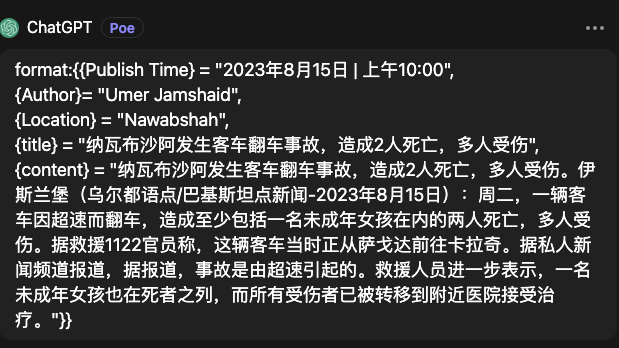
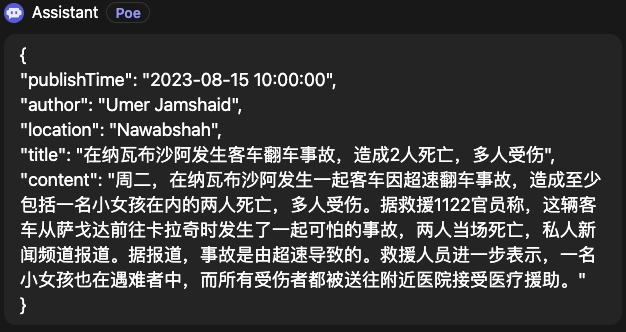
update rss docs

Changed region(s): [[0.0, 0.1506, 0.9822, 0.9639], [0.0, 0.0, 0.2456, 0.1205], [0.9515, 0.0602, 0.9822, 0.0904]]

diff --git a/技术/AI/FlowiseAI/Flowise 应用场景-智能客服(Chrome).md b/技术/AI/FlowiseAI/Flowise 应用场景-智能客服(Chrome).md
@@ -1,5 +1,100 @@
 # Flowise 应用场景-智能客服(Chrome)
 ## 需求
-之前的智能客服使用的是内存向量数据库，但无法维护，所以想办法替换成 Chrome 自部署服务向量数据库，其他不变
+[Flowise 应用场景-智能客服(内存向量数据库)
+](https://github.com/pangzheng/BOOKS/blob/master/%E6%8A%80%E6%9C%AF/AI/FlowiseAI/Flowise%20%E5%BA%94%E7%94%A8%E5%9C%BA%E6%99%AF-%E6%99%BA%E8%83%BD%E5%AE%A2%E6%9C%8D(%E5%86%85%E5%AD%98%E5%90%91%E9%87%8F%E6%95%B0%E6%8D%AE%E5%BA%93).md) 方案使用的是内存向量数据库，仅作为测试使用。本次尝试将其替换成 Chrome 其他不变。
+## 部署 Chrome 服务
+- 下载代码
 
-部署 Chrome 服务
+		git clone https://github.com/chroma-core/chroma.git
+- 编译启动
+
+		cd chroma/
+		sudo docker-compose up -d --build
+		 
+		WARN[0000] The "CHROMA_SERVER_AUTH_PROVIDER" variable is not set. Defaulting to a blank string.
+		WARN[0000] The "CHROMA_SERVER_AUTH_CREDENTIALS_FILE" variable is not set. Defaulting to a blank string.
+		WARN[0000] The "CHROMA_SERVER_AUTH_CREDENTIALS" variable is not set. Defaulting to a blank string.
+		WARN[0000] The "CHROMA_SERVER_AUTH_CREDENTIALS_PROVIDER" variable is not set. Defaulting to a blank string.
+		[+] Building 111.3s (16/16) FINISHED
+		 => [server internal] load build definition from Dockerfile                                                                                                                                                                              0.1s
+		 => => transferring dockerfile: 771B                                                                                                                                                                                                     0.0s
+		 => [server internal] load .dockerignore                                                                                                                                                                                                 0.1s
+		 => => transferring context: 131B                                                                                                                                                                                                        0.0s
+		 => [server internal] load metadata for docker.io/library/python:3.10-slim-bookworm                                                                                                                                                      3.7s
+		 => [server internal] load build context                                                                                                                                                                                                 0.1s
+		 => => transferring context: 1.41MB                                                                                                                                                                                                      0.1s
+		 => [server builder 1/6] FROM docker.io/library/python:3.10-slim-bookworm@sha256:cc91315c3561d0b87d0525cb814d430cfbc70f10ca54577def184da80e87c1db                                                                                        2.2s
+		 => => resolve docker.io/library/python:3.10-slim-bookworm@sha256:cc91315c3561d0b87d0525cb814d430cfbc70f10ca54577def184da80e87c1db                                                                                                       0.1s
+		 => => sha256:2b8a9a2240c1224b34f6aafbc3310f9a3fe65bd6893050906d02e89fc8326aa9 3.50MB / 3.50MB                                                                                                                                           0.4s
+		 => => sha256:ee3ff8104b647adfd7c95ac5a0c324f9d9146d46053c3e22dfd8eb740928f2be 12.38MB / 12.38MB                                                                                                                                         0.7s
+		 => => sha256:4e6b4ab7744477f9b8d05daf9043d207d66656f70aed7995bdecf4af8e8ab1f4 245B / 245B                                                                                                                                               0.3s
+		 => => sha256:cc91315c3561d0b87d0525cb814d430cfbc70f10ca54577def184da80e87c1db 1.65kB / 1.65kB                                                                                                                                           0.0s
+		 => => sha256:83f353e03a40bbebc8d2fe1fcd2d7357d8613e92512c556b02483a670eeb7211 1.37kB / 1.37kB                                                                                                                                           0.0s
+		 => => sha256:1488b8d1803ea7d8ea895950305fff529b88f36c2db6ed9a4391b265868f0d60 6.94kB / 6.94kB                                                                                                                                           0.0s
+		 => => extracting sha256:2b8a9a2240c1224b34f6aafbc3310f9a3fe65bd6893050906d02e89fc8326aa9                                                                                                                                                0.2s
+		 => => sha256:67f71c4528a9196bd1de0a14a51c1bc283cde782e4799dcb4ae926937f03d701 3.36MB / 3.36MB                                                                                                                                           0.9s
+		 => => extracting sha256:ee3ff8104b647adfd7c95ac5a0c324f9d9146d46053c3e22dfd8eb740928f2be                                                                                                                                                0.7s
+		 => => extracting sha256:4e6b4ab7744477f9b8d05daf9043d207d66656f70aed7995bdecf4af8e8ab1f4                                                                                                                                                0.0s
+		 => => extracting sha256:67f71c4528a9196bd1de0a14a51c1bc283cde782e4799dcb4ae926937f03d701                                                                                                                                                0.4s
+		 => [server builder 2/6] RUN apt-get update --fix-missing && apt-get install -y --fix-missing     build-essential     gcc     g++ &&     rm -rf /var/lib/apt/lists/*                                                                    34.7s
+		 => [server final 3/7] RUN mkdir /chroma                                                                                                                                                                                                 0.6s
+		 => [server builder 3/6] RUN mkdir /install                                                                                                                                                                                              0.6s
+		 => [server builder 4/6] WORKDIR /install                                                                                                                                                                                                0.1s
+		 => [server final 4/7] WORKDIR /chroma                                                                                                                                                                                                   0.2s
+		 => [server builder 5/6] COPY ./requirements.txt requirements.txt                                                                                                                                                                        0.2s
+		 => [server builder 6/6] RUN pip install --no-cache-dir --upgrade --prefix="/install" -r requirements.txt                                                                                                                               60.9s
+		 => [server final 5/7] COPY --from=builder /install /usr/local                                                                                                                                                                           3.1s
+		 => [server final 6/7] COPY ./bin/docker_entrypoint.sh /docker_entrypoint.sh                                                                                                                                                             0.0s
+		 => [server final 7/7] COPY ./ /chroma                                                                                                                                                                                                   0.1s
+		 => [server] exporting to image                                                                                                                                                                                                          3.8s
+		 => => exporting layers                                                                                                                                                                                                                  3.7s
+		 => => writing image sha256:51c72afd0cb4da5ba5b058da563c4b8b6b5aeefa20c13cb0010baf62f187d51d                                                                                                                                             0.0s
+		 => => naming to docker.io/library/server                                                                                                                                                                                                0.0s
+		[+] Running 3/3
+		 ✔ Network chroma_net          Created                                                                                                                                                                                                   0.1s
+		 ✔ Volume "chroma_index_data"  Created                                                                                                                                                                                                   0.0s
+		 ✔ Container chroma-server-1   Started                                                                                                                                                                                                   0.4s
+
+- 检查启动
+
+		$ sudo docker ps
+		CONTAINER ID   IMAGE               COMMAND                  CREATED          STATUS          PORTS                                       NAMES
+		b97bb594ca98   server              "uvicorn chromadb.ap…"   43 minutes ago   Up 43 minutes   0.0.0.0:8000->8000/tcp, :::8000->8000/tcp   chroma-server-1
+- 检查挂载点
+
+		 vi docker-compose.yml
+		 
+		 ...
+		     volumes:
+			      - ./:/chroma
+			      - index_data:/index_data
+		 ...
+
+		~/chroma$ ll
+		total 128
+		drwxrwxr-x 11 pangzheng pangzheng  4096 Sep  5 19:53 ./
+		drwxr-xr-x  7 pangzheng pangzheng  4096 Sep  5 19:53 ../
+		drwxrwxr-x  3 pangzheng pangzheng  4096 Sep  5 19:02 bin/
+		drwxr-xr-x  2 root      root       4096 Sep  5 19:05 chroma/   <-- 挂点
+		drwxrwxr-x 14 pangzheng pangzheng  4096 Sep  5 19:04 chromadb/
+		-rw-r--r--  1 root      root       1049 Sep  5 19:05 chroma.log <-- 挂点
+		drwxrwxr-x  4 pangzheng pangzheng  4096 Sep  5 18:58 clients/
+            ....
+- 检查监听
+
+		$ netstat -antlp | grep 8000
+		(Not all processes could be identified, non-owned process info
+		 will not be shown, you would have to be root to see it all.)
+		tcp        0      0 0.0.0.0:8000            0.0.0.0:*               LISTEN      -
+		tcp6       0      0 :::8000                 :::*                    LISTEN      -
+		
+		
+## Flowise 设置
+- 模版选择 
+
+	![](./pic/chroma.png)	
+	![](./pic/chroma1.png)
+- 替换里面组件
+	- TextFile 替换成 PDF File
+	- Pinecone Upsert Document 替换成 Chrome Upsert Document 			
+			

diff --git a/技术/AI/FlowiseAI/Flowise 应用场景-智能翻译.md b/技术/AI/FlowiseAI/Flowise 应用场景-智能翻译.md
@@ -187,94 +187,105 @@
 		这里的这个温度，类似 sd 的幻想程度， 0 是没幻想 
 			
 	![](./pic/FlowAI模版31.png)
-- 对话模版设置
-
-	通过这个对话模版，明确表达想要 AI 处理的结果
-	
-		System message
+- 设置提示词模版
+	- 设置 System message:
 		
-		You first step,will format the data after,that translates {input_language} to Chinese.
-
-		Only the translated information is output,Never break character.
+		通过这个对话模版，明确表达想要 AI 处理的结果
 		
-	- 输入格式
+		![](./pic/RSS翻译器1.png)
 		
-			You are a helpful AI assistant,There are two steps to the job.
+			Hello assistant, I need your help to complete the translation task. Please follow these instructions carefully:
+			1. Replace all urls with Spaces
 			
-			Translate strictly according to formatted data. The information that rejects the translation result includes the content that the original information no longer exists.  
-				
-			The second step， format the input as
-			format:{{Publish Time} = "Article Publish Time",
-			{Author}= "Aricle Author",
-			{Location} =  "Content location",
-			{title} = "Translation result Aricle Title",
-			{content} = "Translation result Aricle Content"}
-				
-			Only the translated information is output,Never break character.
-						
-						
-			{ "input_language": "English", "output_language": "Chinese", "location": true, "title": "(2 Killed, Several Injured As Passenger Coach Overturns In Nawabshah)" ,"content"=(2 Killed, Several Injured As Passenger Coach Overturns In Nawabshah Umer Jamshaid  Published August 15, 2023 | 10:00 AM 2 killed, several injured as passenger coach overturns in Nawabshah
+			2. Translate the title and content of the text from {input_language} to {output_language}. Do not translate any other information, including the information to the left of the equal sign.
+			
+			3. Extract publication time, author and location information from the text.
+			
+			4. Format the output as follows:
+			
+			"publishTime": YYYY-MM-DD HH: MM: SS,
+			"author":"Author of this article",
+			"location": "Content Location",
+			"title": "Article Title",
+			"content": "Content of this article"
+			
+			Please note the following:
+			
+			1. Translate the text strictly in the format provided.
+			2. Do not include any information that is not part of the translated text.
+			3. Provide translation information only in continuous format.
+			4. The publication time of the article should be in the format YYYY-MM-DD HH: MM: SS.
+			
+			Thank you for your help!
+	- 设置 Format Prompt Values 变量，这里设置翻译成中文		
+		![](./pic/RSS翻译器.png)
+		![](./pic/RSS翻译器2.png)
+	- 点击保存，并输入 FLow 实例名字
+
+		![](./pic/FlowAI模版34.png)	
+	- 输入格式
+			
+			{"title": "(2 Killed, Several Injured As Passenger Coach Overturns In Nawabshah)" ,"content"=(2 Killed, Several Injured As Passenger Coach Overturns In Nawabshah Umer Jamshaid  Published August 15, 2023 | 10:00 AM 2 killed, several injured as passenger coach overturns in Nawabshah
 			ISLAMABAD, (UrduPoint / Pakistan Point News - 15th Aug, 2023 ) :At least two people including a minor girl were killed and several others injured when a passenger bus turned turtle due to over-speeding in Nawabshah on Tuesday.
 			According to the details, Rescue 1122 officials said that the passenger coach was going from Sargodha to Karachi when a terrible incident took place and two people died on the spot, private news channels reported.
 			Reportedly, the accident occurred due to over-speeding.  Rescue sources further said that a minor girl was also among the deceased persons, whereas all the injured were shifted to a nearby hospital for medical aid.)}
 	- 输出格式
 
-			{"Publish Time" = "2023年8月15日发布 | 上午10:00", "Author" = "Umer Jamshaid", "Location" = "纳瓦布沙阿", "title" = "纳瓦布沙阿发生客车翻车事故，2人死亡，多人受伤", "content" = "据报道，2023年8月15日星期二，在纳瓦布沙阿发生了一起严重的客车翻车事故，造成至少包括一名未成年女孩在内的两人死亡，多人受伤。据救援1122官员称，这辆客车从萨戈达前往卡拉奇，在超速行驶时发生了这起可怕的事故，两人当场死亡。据报道，事故是由超速引起的。救援人员进一步表示，一名未成年女孩也在死者之列，而所有受伤者都被送往附近医院接受医疗援助。"}					
-	
-	![](./pic/FlowAI模版33.png)
-
+			"publishTime": "2023-08-15 10:00:00", "author": "Umer Jamshaid", "location": "ISLAMABAD", "title": "2人死亡，数人受伤，客车在纳瓦布沙赫翻车", "content": "据报道，2023年8月15日，星期二，在纳瓦布沙赫，一辆客车因超速翻车，造成至少包括一名女童在内的两人死亡，多人受伤。据救援1122官员称，这辆客车从萨戈达前往卡拉奇，在一起可怕的事故中发生了翻车事故，两人当场死亡。据报道，事故是由于超速导致的。救援人员进一步表示，一名女童也是死者之一，而所有受伤者都被送往附近医院接受医疗援助。"
 	- 发送信息到 Poe 测试
 	
 		![](./pic/FlowAI模版32.png)
 
-		```			
-		System message:
-		
-		You are a helpful AI assistant,There are two steps to the job.
-		
-		You first step,will format the data after,that translates {input_language} to {output_language}.
-		Translate strictly according to formatted data. The information that rejects the translation result includes the content that the original information no longer exists.  
-		
-		The second step， format the input as
-		format:{{Publish Time} = "Article Publish Time",
-		{Author}= "Aricle Author",
-		{Location} =  "Content location",
-		{title} = "Translation result Aricle Title",
-		{content} = "Translation result Aricle Content"}
-		
-		Only the translated information is output,Never break character.
-		
-		Human Message：
-		{input_language} = English,
-		{output_language} = Chinese,
-		{location} = true,
-		{title}=(2 Killed, Several Injured As Passenger Coach Overturns In Nawabshah)
-		{content}=(2 Killed, Several Injured As Passenger Coach Overturns In Nawabshah Umer Jamshaid  Published August 15, 2023 | 10:00 AM 2 killed, several injured as passenger coach overturns in Nawabshah
-		ISLAMABAD, (UrduPoint / Pakistan Point News - 15th Aug, 2023 ) :At least two people including a minor girl were killed and several others injured when a passenger bus turned turtle due to over-speeding in Nawabshah on Tuesday.
-		According to the details, Rescue 1122 officials said that the passenger coach was going from Sargodha to Karachi when a terrible incident took place and two people died on the spot, private news channels reported.
-		Reportedly, the accident occurred due to over-speeding.  Rescue sources further said that a minor girl was also among the deceased persons, whereas all the injured were shifted to a nearby hospital for medical aid.)
-	```
-- 点击保存，并输入 FLow 实例名字
+```			
+System message:
+Hello assistant, I need your help to complete the translation task. Please follow these instructions carefully:
+1. Replace all urls with Spaces
+2. Translate the title and content of the text from {input_language} to {output_language}. Do not translate any other information, including the information to the left of the equal sign.
+3. Extract publication time, author and location information from the text.
+4. Format the output as follows:
+	
+"publishTime": YYYY-MM-DD HH: MM: SS,
+"author":"Author of this article",
+"location": "Content Location",
+"title": "Article Title",
+"content": "Content of this article"
+	
+Please note the following:
+1. Translate the text strictly in the format provided.
+2. Do not include any information that is not part of the translated text.
+3. Provide translation information only in continuous format.
+4. The publication time of the article should be in the format YYYY-MM-DD HH: MM: SS.
+	
+Human Message：
+{input_language:"English",output_language:"Chinese","title": "(2 Killed, Several Injured As Passenger Coach Overturns In Nawabshah)" ,"content"=(2 Killed, Several Injured As Passenger Coach Overturns In Nawabshah Umer Jamshaid  Published August 15, 2023 | 10:00 AM 2 killed, several injured as passenger coach overturns in Nawabshah ISLAMABAD, (UrduPoint / Pakistan Point News - 15th Aug, 2023 ) :At least two people including a minor girl were killed and several others injured when a passenger bus turned turtle due to over-speeding in Nawabshah on Tuesday.According to the details, Rescue 1122 officials said that the passenger coach was going from Sargodha to Karachi when a terrible incident took place and two people died on the spot, private news channels reported.Reportedly, the accident occurred due to over-speeding.  Rescue sources further said that a minor girl was also among the deceased persons, whereas all the injured were shifted to a nearby hospital for medical aid.)}
+```
 
-	![](./pic/FlowAI模版34.png)
 - 设置后台调用 api key 权限
 
 	![](./pic/FlowAI模版37.png)
-	
+- 点击保存，并输入 FLow 实例名字
 
+	![](./pic/FlowAI模版34.png)	
 	
-System Message:
-You are a helpful AI assistant,There are two steps to the job,You first step,will format the data after,that translates English to Chinese,Translate strictly according to formatted data. The information that rejects the translation result includes the content that the original information no longer exists.  
-The second step,format the input as.
-format:{{Publish Time} = "Article Publish Time",
-{Author}= "Aricle Author",
-{Location} =  "Content location",
-{title} = "Translation result Aricle Title",
-{content} = "Translation result Aricle Content"}
-Only the translated information is output,Never break character.}
-			
-{"input_language"=English,"output_language"=Chinese,"location": true}
-{"title": "(2 Killed, Several Injured As Passenger Coach Overturns In Nawabshah)" ,"content"=(2 Killed, Several Injured As Passenger Coach Overturns In Nawabshah Umer Jamshaid  Published August 15, 2023 | 10:00 AM 2 killed, several injured as passenger coach overturns in Nawabshah
-ISLAMABAD, (UrduPoint / Pakistan Point News - 15th Aug, 2023 ) :At least two people including a minor girl were killed and several others injured when a passenger bus turned turtle due to over-speeding in Nawabshah on Tuesday.
-According to the details, Rescue 1122 officials said that the passenger coach was going from Sargodha to Karachi when a terrible incident took place and two people died on the spot, private news channels reported.
-Reportedly, the accident occurred due to over-speeding.  Rescue sources further said that a minor girl was also among the deceased persons, whereas all the injured were shifted to a nearby hospital for medical aid.)}	
+## 遇到问题
+### 问题1
+- 问题
+	
+	在 system 设置 {} 内容属于变量，所以这里无法传输以 {} 为标识的参数
+- 解决方案
+
+	将大括号删除
+	
+### 问题2
+- 问题
+
+	在给定的内容中包含大量取消格式的 http url 地址，导致翻译失败
+- 解决方案
+	- 临时解决
+	
+		增加1条强规则, 1. Replace all urls with Spaces.
+	- 完美解决(待处理)
+	
+		需要变更传输翻译的格式，去除 https url 或者带上 html 格式	
+		
+	

diff --git a/技术/AI/FlowiseAI/FlowiseAI.md b/技术/AI/FlowiseAI/FlowiseAI.md
@@ -277,7 +277,6 @@ Flowise 有 2 个授权：
 
 	FLOWISE_USERNAME=user
 	FLOWISE_PASSWORD=1234
-	
 
 ## 8 如何使用
 现在您已经使用 Flowise 上的聊天界面测试了Chatflow ，您希望将其 “export” 以便能够与其他应用程序一起使用。
@@ -401,7 +400,7 @@ Flowise 提供了 2 种方法来实现此目的：
 
 		socket.disconnect();
 		
-### 8.3 嵌入
+### 8.3 嵌入式
 您还可以将聊天小部件嵌入到您的网站中。
 
 只需将提供的嵌入代码复制粘贴到 `<body>` html 文件标记中的任意位置即可。
